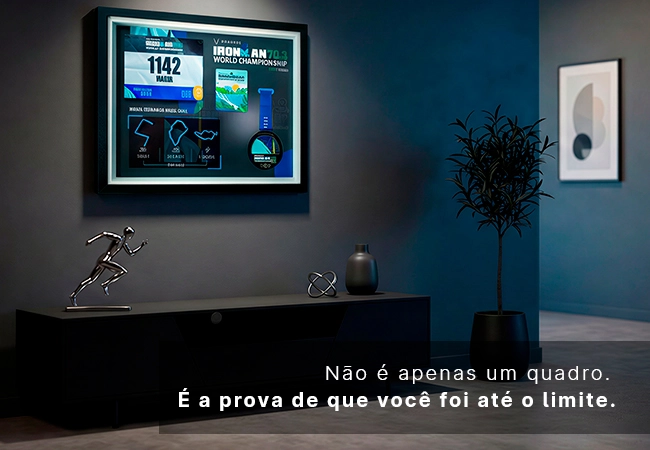
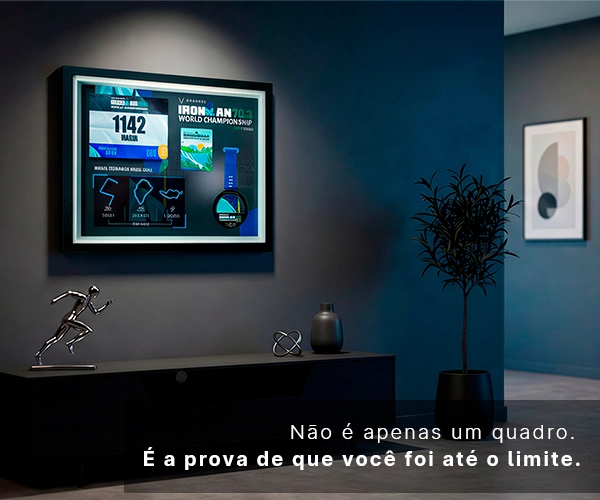
Changes

diff --git a/src/components/LifestyleHeroSectionTriathlon.tsx b/src/components/LifestyleHeroSectionTriathlon.tsx
@@ -11,15 +11,19 @@ const LifestyleHeroSectionTriathlon = () => {
         className="absolute inset-0 w-full h-full object-cover object-center sm:hidden"
       />
       
-      {/* Tablet Image */}
-      <img 
-        src="/images/lifestyle-triathlon-tablet.webp"
-        alt="Quadro de triathlon em ambiente moderno"
-        fetchPriority="high"
-        loading="eager"
-        decoding="async"
-        className="absolute inset-0 w-full h-full object-cover object-center hidden sm:block lg:hidden"
-      />
+      {/* Tablet Image - 600x500px, centralizada, object-contain */}
+      <div className="hidden sm:flex lg:hidden absolute inset-0 items-center justify-center">
+        <img 
+          src="/images/lifestyle-triathlon-tablet.webp"
+          alt="Quadro de triathlon em ambiente moderno"
+          fetchPriority="high"
+          loading="eager"
+          decoding="async"
+          width={600}
+          height={500}
+          className="max-w-[600px] w-full h-auto object-contain"
+        />
+      </div>
       
       {/* Desktop Image */}
       <img 
